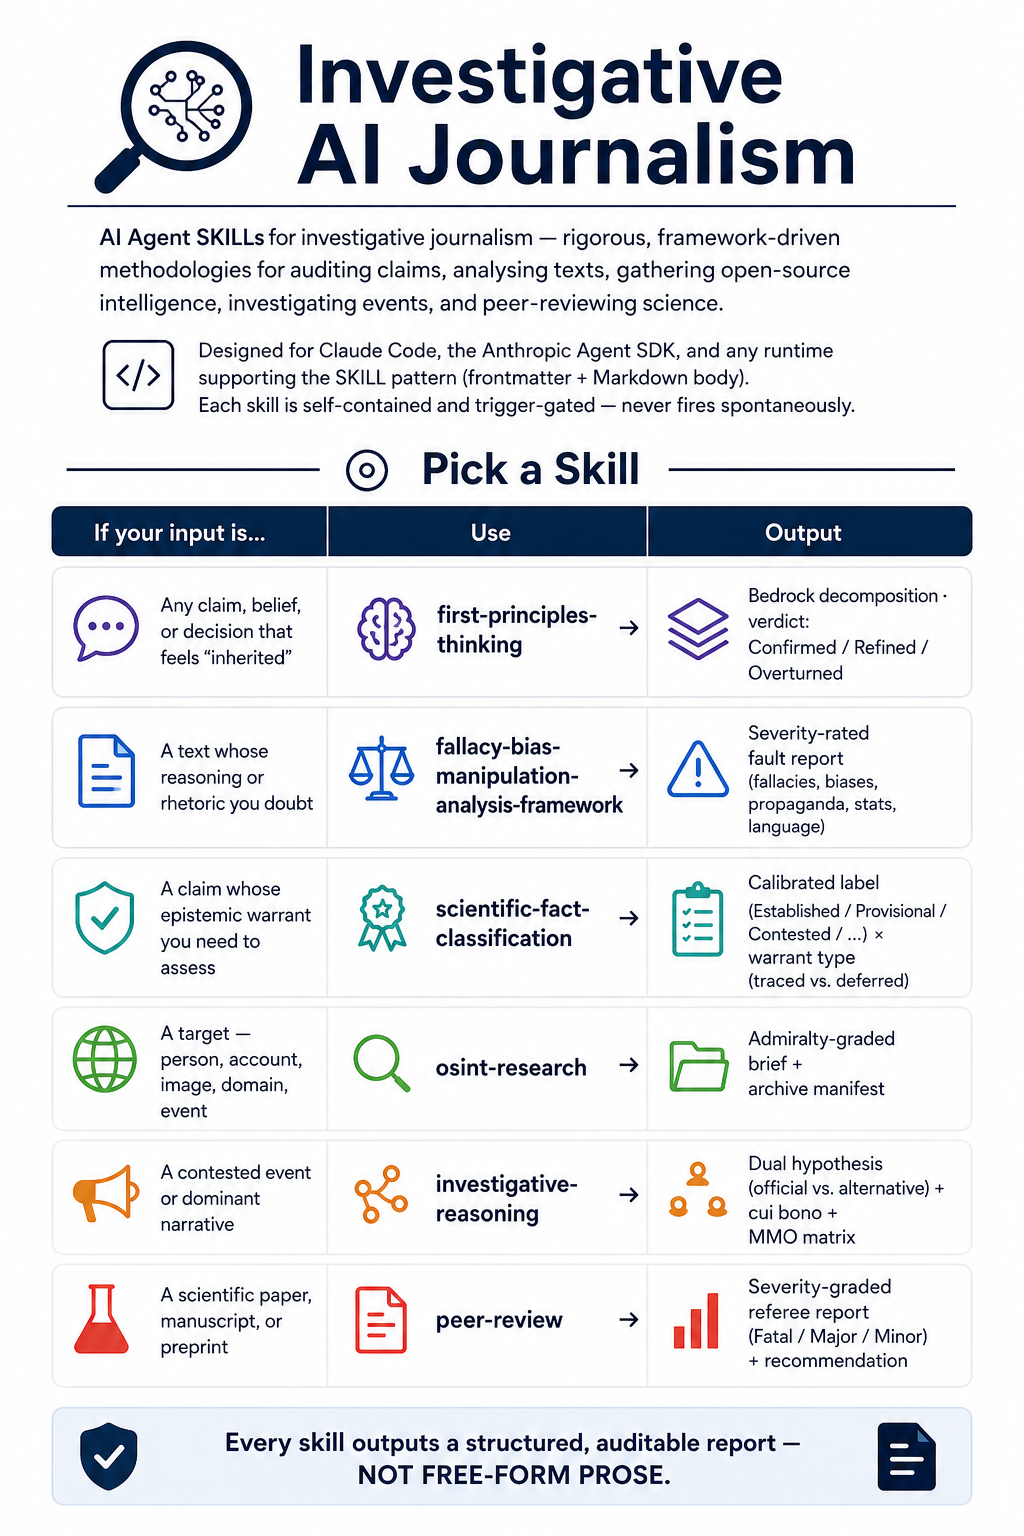
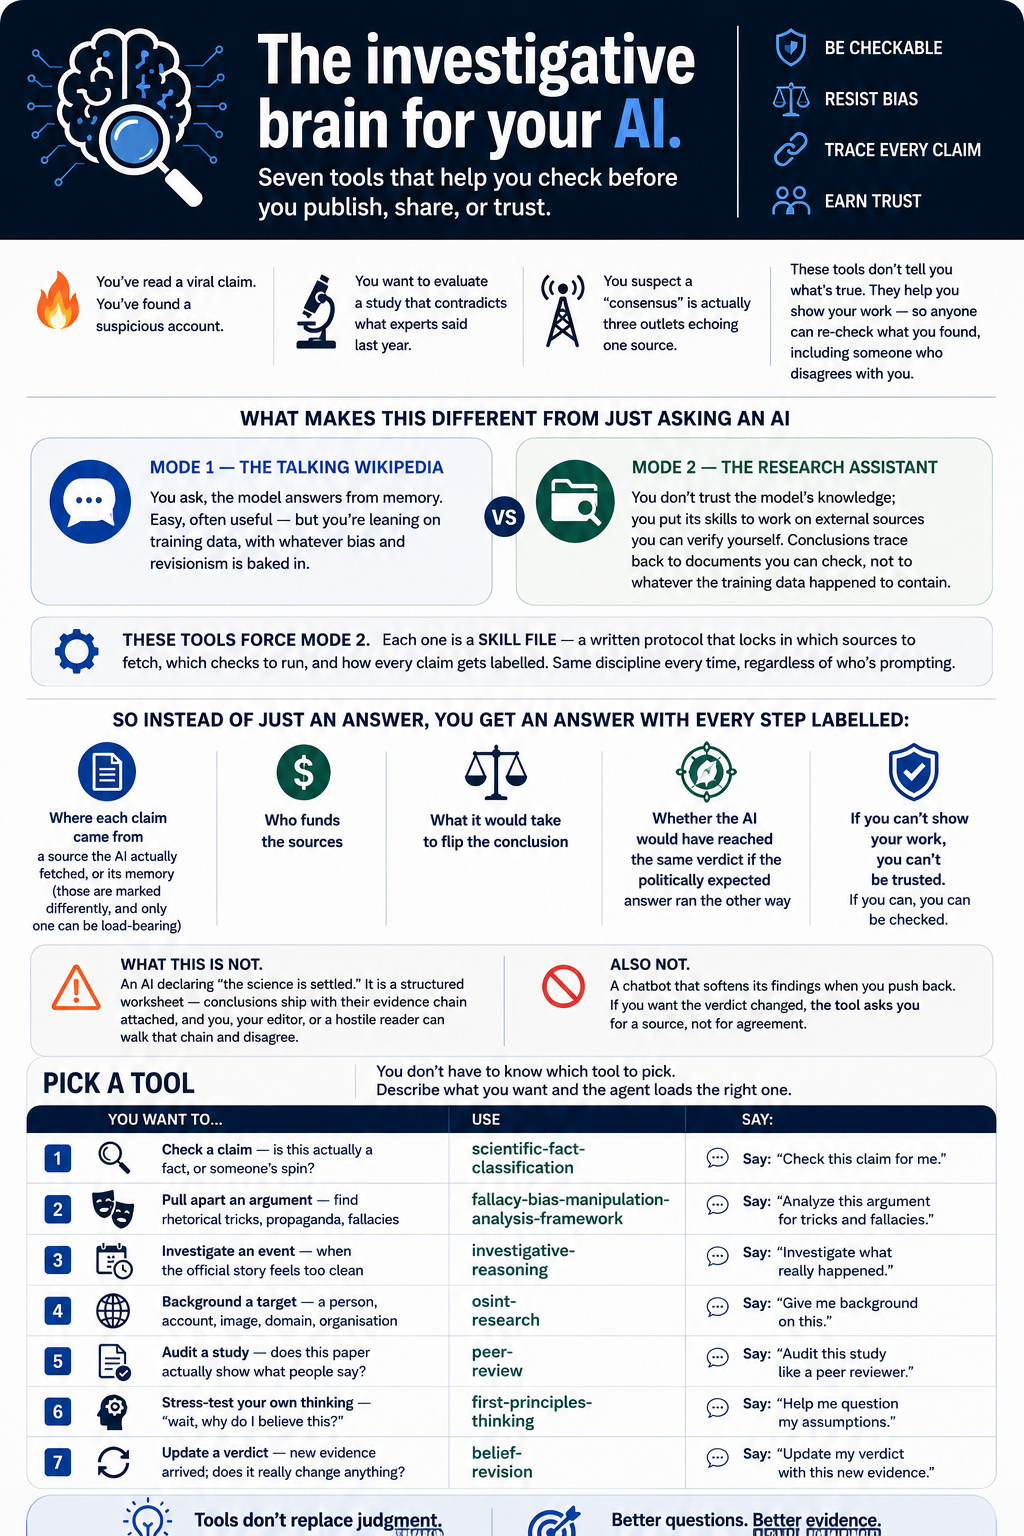
README: rewrite for amateur journalists and truth-seekers
Reframe the README around the user's problem (checking claims before
publishing or sharing) instead of toolbox architecture. Introduce the
two-modes framing — talking-Wikipedia vs research-assistant — to
explain why SKILL-driven analysis differs from plain AI prompting.
Compress Shared Discipline from a 50-line mechanism inventory to five
plain-language rules, add a "Discussing the result" section covering
how user input is verified during interactive refinement, and drop the
ASCII composition diagram and SKILL-anatomy block as developer-facing
noise. Refresh overview.png to match.

diff --git a/README.md b/README.md
@@ -4,248 +4,164 @@
   <img src="./overview.png" alt="Investigative AI Journalism — overview of the SKILLs" width="520">
 </p>
 
-Seven AI Agent SKILLs whose distinguishing property is **auditable, repeatable reasoning chains** — every load-bearing claim warrant-labelled, every assumption named, every source's funding / ownership / alignment surfaced, every verdict re-runnable on the same primary sources by an independent reviewer.
+**Seven tools that help you check before you publish, share, or trust.**
 
-> The toolbox does not replace bias. It makes bias traced and visible. Run any analysis through it and a sceptic can repeat the exact same chain on the same primary sources and check whether the conclusion holds — or doesn't.
+You've read a viral claim. You've found a suspicious account. You want to evaluate a study that contradicts what experts said last year. You suspect a "consensus" is actually three outlets echoing one source.
 
-**What this is not.** Not AI declaring "the science", settling contested political questions, or acting as a bias-eliminating oracle. The output is a *reasoning artifact for human verification* — not a verdict to be trusted on the agent's authority. Every conclusion is shown with its warrant chain attached, so a reviewer can repeat the work, check the sources, and disagree without starting from scratch.
-
-**Also not** a chatbot that updates its conclusions when the user pushes back. User contributions during interactive refinement are *inputs to be verified*, not warrants to be inherited (CLAUDE.md Rule 9). If the user wants the verdict changed, the toolbox asks for the primary source — not for agreement. This preserves the audit-chain property *for the third-party reviewer*, who didn't agree to trust the user.
-
-**What this is for.** Journalism, investigation, claim-auditing, and peer review — domains where the difference between a defensible conclusion and an indefensible one is *whether the work can be checked*. Compatible with [Claude Code](https://claude.com/claude-code), the Anthropic Agent SDK, and any runtime supporting the SKILL pattern (frontmatter + Markdown body). Each skill is self-contained and **trigger-gated** — never fires spontaneously.
+These tools don't tell you what's true. They help you **show your work** — so anyone can re-check what you found, including someone who disagrees with you.
 
 ---
 
-## Pick a Skill
+## What makes this different from just asking an AI
 
-| If your input is… | Use | Output |
-|---|---|---|
-| Any claim, belief, or decision that feels "inherited" | [`first-principles-thinking`](./.claude/skills/first-principles-thinking) | Bedrock decomposition · verdict: Confirmed / Refined / Overturned |
-| A text whose reasoning or rhetoric you doubt | [`fallacy-bias-manipulation-analysis-framework`](./.claude/skills/fallacy-bias-manipulation-analysis-framework) | Severity-rated fault report (fallacies, biases, propaganda, statistical, linguistic, discourse) |
-| A claim whose epistemic warrant you need to assess | [`scientific-fact-classification`](./.claude/skills/scientific-fact-classification) | Calibrated label × warrant type, plus the reader-usable consequential sentence |
-| A target — person, entity, account, image, domain, event | [`osint-research`](./.claude/skills/osint-research) | Admiralty-graded brief with archive manifest |
-| A contested event or dominant narrative | [`investigative-reasoning`](./.claude/skills/investigative-reasoning) | Dual hypothesis (official vs. alternative), positive-evidence-vs-doubt split, Cui Bono, MMO, source triangulation |
-| A scientific paper, manuscript, or preprint | [`peer-review`](./.claude/skills/peer-review) | Severity-graded referee report (Fatal / Major / Minor) with citation-load audit |
-| A prior verdict + new evidence that may change it | [`belief-revision`](./.claude/skills/belief-revision) | Calibrated update protected against under- and over-correction |
+An LLM has two capabilities people often confuse: **the knowledge baked into it during training**, and **the skills that came with it** — reading, comparing, reasoning, searching.
 
-Every skill outputs a **structured, auditable report** — not free-form prose.
+**Mode 1 — the talking Wikipedia.** You ask, the model answers from memory. Easy, often useful — but you're leaning on training data, with whatever bias and revisionism is baked in.
 
----
+**Mode 2 — the research assistant.** You don't trust the model's *knowledge*; you put its *skills* to work on external sources you can verify yourself. Conclusions trace back to documents you can check, not to whatever the training data happened to contain.
 
-## How They Fit Together
+These tools force Mode 2. Each one is a SKILL file — a written protocol that locks in which sources to fetch, which checks to run, and how every claim gets labelled. Same discipline every time, regardless of who's prompting.
 
-```
-                  ┌────────────────────────────────────┐
-                  │     first-principles-thinking      │  ← orthogonal sanity check
-                  └────────────────────────────────────┘
+So instead of just an answer, you get an answer **with every step labelled**:
 
-   osint-research  ─────────►  investigative-reasoning
-       (gather)                  (theorise about events;
-                                  source triangulation)
-                                          ▲
-   fallacy-bias  +  scientific-fact-classification
-       (text)            (claim warrant + calibrated sentence)
-                                          ▲
-                                   peer-review
-                            (integrative — on scientific papers;
-                             citation-load / deployment audit)
+- Where each claim came from — a source the AI actually fetched, or its memory (those are marked differently, and only one can be load-bearing)
+- Who funds the sources
+- What it would take to flip the conclusion
+- Whether the AI would have reached the same verdict if the politically expected answer ran the other way
 
-   any of the above ──────────►  belief-revision
-       (prior verdict)             (calibrated update when
-                                    new evidence emerges)
-```
+If you can't show your work, you can't be trusted. If you can, you can be checked. That's the whole point.
 
-Hand-offs declared inside the skills:
-- `osint-research` → `investigative-reasoning` once gathering is done and hypothesis work begins.
-- `peer-review` orchestrates `scientific-fact-classification` (claim typing), `fallacy-bias-…` (rhetoric), `investigative-reasoning` (motive/deception/triangulation), and `osint-research` (author / funder / replication-status verification).
-- `investigative-reasoning` Phase 3i (Source Triangulation) is referenced by `scientific-fact-classification` and `peer-review` when contested literature has ≥3 sources making conflicting claims.
-- `first-principles-thinking` is orthogonal — invokable inside any other skill whenever a load-bearing claim feels inherited rather than derived.
-- `belief-revision` takes the output of any other skill and produces a calibrated revision in its format when new evidence emerges.
+**What this is not.** An AI declaring "the science is settled." It is a structured worksheet — conclusions ship with their evidence chain attached, and you, your editor, or a hostile reader can walk that chain and disagree.
 
-Each skill carries a **Pairs With** block declaring its composition partners, so a user combining tools never has to infer the wiring.
+**Also not.** A chatbot that softens its findings when you push back. If you want the verdict changed, the tool asks you for a source, not for agreement.
 
 ---
 
-## Shared Discipline
+## Pick a tool
 
-The seven skills function as a single truth-seeking toolbox because they share five mechanisms:
+| You want to… | Use |
+|---|---|
+| **Check a claim** — is this actually a fact, or someone's spin? | [`scientific-fact-classification`](./.claude/skills/scientific-fact-classification) |
+| **Pull apart an argument** — find rhetorical tricks, propaganda, fallacies | [`fallacy-bias-manipulation-analysis-framework`](./.claude/skills/fallacy-bias-manipulation-analysis-framework) |
+| **Investigate an event** — when the official story feels too clean | [`investigative-reasoning`](./.claude/skills/investigative-reasoning) |
+| **Background a target** — a person, account, image, domain, organisation | [`osint-research`](./.claude/skills/osint-research) |
+| **Audit a study** — does this paper actually show what people say it shows? | [`peer-review`](./.claude/skills/peer-review) |
+| **Stress-test your own thinking** — "wait, why do I believe this?" | [`first-principles-thinking`](./.claude/skills/first-principles-thinking) |
+| **Update a verdict** — new evidence arrived; does it really change anything? | [`belief-revision`](./.claude/skills/belief-revision) |
 
-**1. Aligned report shape.** Every skill emits a report with the same outer scaffold:
-
-```
-# [Skill Type]: [Subject]
-## Summary                       — verdict / recommendation + key metadata
-## [skill-specific body]         — findings, tables, hypotheses, classifications
-## Confidence & Severity         — graded scoring
-## What Would Change This        — falsification criteria
-## Self-Audit                    — symmetry test + skill-specific neutrality checks
-## Limits of This Analysis       — scope, expertise gaps, unverifiable items
-```
-
-**2. Warrant labels (project standard).** Every load-bearing factual claim carries one of:
-
-- `(traced)` — followed evidence chain to a primary source fetched **this session** via WebFetch / WebSearch, with URL + access date stated
-- `(deferred to consensus)` — relying on a named consensus mechanism (peer-reviewed literature, regulatory body, textbook)
-- `(deferred, fragile)` — deferred but consensus-failure modes apply (funder capture, prestige cascade, replication crisis, etc.) — name which
-- `(memory — unverified)` — recalled from training data; never load-bearing without an explicit "this could be wrong" caveat
-- `(user-supplied — unverified)` — provided by the user during interactive refinement; never load-bearing on its own; treated as a hypothesis to test or an input to verify (see CLAUDE.md Rule 9)
-
-The label is **per-session, not lifetime.** Confidence about an unfetched chain belongs in surrounding prose, never laundered into a `(traced)` label. Defined and enforced via [`CLAUDE.md`](./CLAUDE.md) and a `Stop` hook at [`.claude/hooks/check-research-warrant.ps1`](./.claude/hooks/check-research-warrant.ps1) that blocks analytical output without source-tracing.
-
-**3. Symmetry test.** Every Self-Audit answers the same question first: *"Would I have reached the same verdict if the politically/socially expected answer ran the other way?"* If no — explain. If you can't tell — say so.
-
-**4. Research Discipline (CLAUDE.md).** Each skill names which of the nine project-wide operating rules bind its work and how they apply locally:
-
-1. Pre-search hypothesis registration
-2. Steelman from primary literature
-3. Primary before secondary
-4. Map institutional networks before counting independent corroboration
-5. Tier-0 priority for time-sensitive claims
-6. Bias self-audit
-7. Minimum search volumes
-8. Hostility check on sources
-9. Interactive refinement — user contributions are inputs to be verified, never warrants. Label `(user-supplied — unverified)` until traced.
-
-These are not optional add-ons but constitutive of every skill's output. Rule 9 applies to *all* skills the moment the conversation moves from initial analysis into back-and-forth refinement.
-
-**5. Positive evidence vs. doubt cast on the alternative.** Dual-hypothesis work (investigative-reasoning Phase 9) requires each hypothesis to list its *positive evidence* separately from *doubt cast on the rival*. A hypothesis whose entire support is "doubt about the other side" is structurally asymmetric to one with direct positive evidence — the toolbox surfaces this distinction structurally, not by analyst intuition.
-
-Each `SKILL.md` carries `version` and `aligned` fields in its frontmatter, so consumers can detect drift from the documented baseline.
-
-> **Note for editors.** The `Stop` hook regex in `.claude/hooks/check-research-warrant.ps1` tracks marker phrases in skill output templates ("Hypothesis A/B", "Cui Bono", "Bedrock", classification labels, warrant tags, "Anchor Declaration", etc.). If you rename a section or label, update the hook regex in the same change, or the discipline check will silently stop catching memory-laundering in that category.
+You don't have to know which tool to pick. Describe what you want and the agent loads the right one. The "Say:" phrases below show what activates each.
 
 ---
 
-## What is a SKILL?
+## What each one does, in plain English
 
-```yaml
----
-name: skill-name
-description: When and why to invoke this skill
-version: 1.0
-aligned: 2026-05-26
----
+### Is this claim solid? — `scientific-fact-classification`
 
-# Phases, checklists, output format
-```
+Takes a claim ("X causes Y", "studies show…", "it's been proven that…") and places it on the spectrum from **established fact** to **assumption** to **opinion** to **unfalsifiable belief**. Tells you what's missing for the claim to qualify as fact, and gives you a **calibrated sentence** you can use in your own writing — one that carries the right hedges so it can't be misread as bigger than the evidence supports.
 
-`description` tells the agent *when* to load the skill; the body tells it *how* to execute.
+Say: *"is X a fact?"* · *"weigh the evidence for…"* · *"how well-supported is this?"*
 
----
+### Find the manipulation — `fallacy-bias-manipulation-analysis-framework`
 
-## The Skills
+Reads a text — article, speech, transcript, thread — and surfaces fallacies, cognitive biases, propaganda techniques (firehose-of-falsehood, motte-and-bailey, DARVO, gaslighting…), statistical sleight-of-hand, and discourse-level patterns. Charitable first: every flag has to survive a steelman reading, or it's dropped.
 
-### [`first-principles-thinking`](./.claude/skills/first-principles-thinking)
-> Decompose a claim or proposal to bedrock truths and rebuild reasoning from there.
+Say: *"analyse this for fallacies"* · *"is this propaganda?"* · *"what rhetorical tricks are being used?"*
 
-Four moves: state · decompose · excavate to Bedrock / Assumption / Unknown · rebuild. A compact engine for stress-testing conventional wisdom or stuck arguments. When an Excavation reaches Bedrock via an empirical claim, the project's warrant labels bind that sub-claim — and a `(memory — unverified)` Bedrock is downgraded to Assumption.
+### Investigate an event — `investigative-reasoning`
 
-**Triggers:** *"break this down from first principles"*, *"is this actually true?"*, *"why is it done this way?"*, *"what are we assuming?"*, *"rethink this"*, *"challenge my thinking"*.
+Detective work for contested events. Builds **two** hypotheses — the official narrative *and* a steelmanned alternative — and compares them head-to-head. Demands **positive evidence** on each side (not just "doubt about the other"). Maps who benefits, what means and motive look like, and surfaces when "ten outlets confirmed it" turns out to be ten outlets quoting one source.
 
----
+Say: *"investigate this event"* · *"who benefits from this?"* · *"find the red flags in this explanation"*
 
-### [`fallacy-bias-manipulation-analysis-framework`](./.claude/skills/fallacy-bias-manipulation-analysis-framework)
-> Audit a text for logical fallacies, cognitive biases, rhetorical manipulation, statistical deception, and discourse-level patterns.
+### Background a target — `osint-research`
 
-Steelman first, then systematic scan: formal → informal fallacies → cognitive biases → rhetoric and propaganda (firehose, motte-and-bailey, DARVO, gaslighting, Schopenhauer's tricks, …) → statistical manipulation → linguistic patterns → discourse-structural. Every flag survives charitable reading or is dropped; every load-bearing flaw gets a steelman repair offer.
+Open-source intelligence using only publicly available information. Profiles people, accounts, images, domains, organisations, events. Verifies images and videos (where and when was this taken?). Grades each source on independence and credibility. Hard limits built in: no facial recognition on private individuals, no breaking into anything, no fabricating tradecraft the AI can't actually do.
 
-**Triggers:** *"analyse this for fallacies"*, *"find the cognitive biases"*, *"audit this reasoning"*, *"is this propaganda?"*, *"what rhetorical tricks"*, *"stress-test this argument"*, *"find the manipulation"*.
+Say: *"find out about X"* · *"build a profile on this account"* · *"verify this image"* · *"trace this domain"*
 
----
+### Audit a paper — `peer-review`
 
-### [`scientific-fact-classification`](./.claude/skills/scientific-fact-classification)
-> Classify each claim along a spectrum from established fact to unfalsifiable belief — and write the calibrated sentence the reader should use.
+Reads a scientific paper and produces a referee-style report. Checks the methodology against its field's standards, audits the stats, **verifies the citations** (fetches each load-bearing cited source and checks it actually supports the paper's claim), and — distinctively — checks the **deployment gap**: is this paper being cited downstream to support claims much bigger than it actually shows? Findings come back tagged Fatal / Major / Minor, with what would change the verdict.
 
-Per claim: type → falsifiability → evidence tier + GRADE → Bradford Hill (causal claims) → Bayesian weighing → confidence label × warrant type (**traced** vs. **deferred to consensus** — explicit about consensus failure modes: funder capture, prestige cascades, replication-crisis fields). Closes with the **consequential sentence**: the reader-usable phrasing that carries the hedges intact, so calibrated labels do not silently round to "fact / not-fact" in downstream reception.
+Say: *"review this paper"* · *"is this study sound?"* · *"verify the citations"*
 
-**Triggers:** *"is X a fact?"*, *"weigh the evidence for Y"*, *"classify these claims"*, *"distinguish fact from assumption"*, *"has this been proven?"*, *"how well-supported is this?"*, *"is this objective?"*.
+### Why do I believe this? — `first-principles-thinking`
 
----
+For when a belief or argument feels inherited rather than earned. Breaks the claim down to bedrock truths and rebuilds the reasoning. Useful when conventional wisdom suddenly feels shaky, or when you're stuck on a proposal whose justification you can't quite articulate.
 
-### [`osint-research`](./.claude/skills/osint-research)
-> Plan, execute, and verify open-source intelligence using only publicly available information (PAI).
+Say: *"is this actually true?"* · *"why is it done this way?"* · *"break this down from first principles"*
 
-Five-phase cycle (Planning → Collection → Processing → Analysis → Dissemination), calibrated to what an AI agent can actually do without shell access or paid databases. **Admiralty Code** (NATO STANAG 2511) grading on independent reliability / credibility axes. Pivoting chains for name / username / email / domain / phone / image / entity. Hard constraints — PAI only, no active engagement, no facial recognition on private individuals, harm minimisation — define the boundary between OSINT and conduct that is unethical, unlawful, or operationally compromising.
+### Did new evidence change anything? — `belief-revision`
 
-**Triggers:** *"find out about X"*, *"build a profile on X"*, *"who is behind this account?"*, *"verify this image/video"*, *"where/when was this taken?"*, *"trace this username/email/domain"*, *"digital footprint of X"*.
+You had a conclusion; new evidence arrived. Should you update — and by how much? This tool guards against both **under-correction** (anchoring on your prior because changing your mind feels like losing) and **over-correction** (chasing the loudest new thing). You write down your prior first, predict the update before reading the evidence, then check whether the actual update was driven by the evidence or by where the social pressure points.
+
+Say: *"does this change anything?"* · *"should I change my mind?"* · *"revise this analysis"*
 
 ---
 
-### [`investigative-reasoning`](./.claude/skills/investigative-reasoning)
-> Critically analyse events, detect deception, develop ranked alternative hypotheses — with positive evidence demanded for each side and source triangulation when the literature is contested.
+## How the tools work together
 
-Detective-method playbook. **Mandates web search at every phase** to break free of training-data bias toward official narratives. Source tiers (Tier 0 = contemporary primary), CoI demotion, geopolitical-alignment checks, evidence ladder. **18 influence-operation patterns** (false flag, problem–reaction–solution, limited hangout, controlled opposition, astroturfing, …). **Source Triangulation** (Phase 3i) for ≥3-source disagreements — exposes single-origin amplification ("10 outlets" with one source-node) and rewards genuinely independent convergence. **Dual-hypothesis mandate:** every investigation produces a steelmanned official narrative AND a steelmanned alternative, compared head-to-head with **positive evidence and doubt-cast-on-the-alternative tracked in separate columns**. A hypothesis built only from doubt is structurally asymmetric to one with positive evidence.
-
-**Triggers:** *"investigate this event"*, *"develop a conspiracy theory about X"*, *"who benefits from Y?"*, *"apply critical thinking to this narrative"*, *"find red flags in this explanation"*.
+You don't have to learn the wiring — each tool calls the others when it needs to. A peer review pulls in fact-classification for individual claims. An investigation pulls in OSINT for backgrounding. Any of them hands off to belief-revision when new evidence arrives. The audit chain stays end-to-end.
 
 ---
 
-### [`peer-review`](./.claude/skills/peer-review)
-> Rigorous, citation-verified peer review of scientific papers — with explicit audit of downstream deployment.
+## How they stay honest
 
-Audits methodology, statistics, causal claims, citations, reproducibility, and literature context against the paper's genre and field standards (preprint vs. journal; RCT vs. observational; ML vs. lab biology; systematic review; replication; qualitative). Audits the **inferential gap** between what was measured and what is claimed, **and the citation-load gap** — what consequential claims the paper is cited to support downstream, classified Inside-lane / Lane-stretched / Outside-lane. **Verifies load-bearing citations** by fetching the cited source and comparing to the paper's claim (Supports / Partial / Contradicts / Unrelated / Unverifiable). When the literature is itself contested (≥3 sources disagreeing on a load-bearing point), routes to `investigative-reasoning` Phase 3i triangulation. Outputs severity tags (**Fatal / Major / Minor / Optional / Praise**), an explicit recommendation, and what would change it upward or downward.
+Five rules bind every tool, so the discipline you get is the same regardless of which one produced the output:
 
-**Triggers:** *"review this paper"*, *"is this study sound?"*, *"audit the methodology"*, *"do the results support the conclusion?"*, *"verify the citations"*, *"is this reproducible?"*, *"produce a referee report"*.
+1. **Every claim labelled.** Did the AI fetch the source this session, or is it working from memory? Both are allowed — but they're marked differently, and only fetched sources can be load-bearing.
+2. **Symmetry test.** Every output ends by answering: *would I have reached the same verdict if the politically expected answer ran the other way?* If not — explain why.
+3. **Primary before secondary.** When someone summarises a paper, court filing, or document, fetch the actual thing before citing.
+4. **Map the network.** Ten outlets repeating one source is not ten sources. The tool surfaces this rather than letting "consensus" hide a single point of origin.
+5. **Your pushback doesn't override the chain.** When you correct the AI mid-analysis, your input is marked *user-supplied, unverified* until you provide a source. The audit trail has to survive *you*, because the reader downstream did not agree to trust you.
 
----
-
-### [`belief-revision`](./.claude/skills/belief-revision)
-> Update a prior verdict when new evidence emerges — calibrated against both under-correction (anchoring on the prior) and over-correction (anchoring on novelty or social pressure).
-
-Takes a prior analytical output from any of the other six skills and produces a calibrated revision in its format. **Anchor declaration** (write down the prior verdict and your priors in writing *before* reading the new evidence). **Predicted update** (predict the direction and magnitude *before* incorporating). **Pressure-direction check** (is the expected revision direction the institutionally rewarded one?). **Asymmetric-warrant rule:** `(memory — unverified)` and `(user-supplied — unverified)` cannot overturn `(traced)`. **Fresh-analyst test:** would someone seeing only the new evidence (no prior) reach this same revised verdict? Five possible statuses: Confirmed / Refined / Shifted / Overturned / Suspended.
-
-**Triggers:** *"update this verdict"*, *"revise this analysis"*, *"new evidence came in — does it change anything?"*, *"should I change my mind?"*, *"rethink this in light of X"*.
+A behind-the-scenes check ("Stop hook") will block the AI from producing investigation-style output when it didn't actually fetch any sources — so it can't fake the homework. Full rules are in [CLAUDE.md](./CLAUDE.md), and they enforce themselves; you don't need to read them to use the tools.
 
 ---
 
-## Installation
+## Discussing the result
 
-The skills live under `.claude/skills/` in this repository — Claude Code's standard skills location — so an AI agent can copy them in place without any path rewriting.
+You can — and should — push back on what the AI produced. The toolbox is built for argument. But the AI doesn't drop its discipline just because the conversation has narrowed to you and it. Every correction, counter-argument, "wait, actually…" and "consider this…" gets the same treatment any other source gets.
 
-Paste this to Claude Code (or any AI coding agent with shell access):
+**It asks for the receipt.** A correction with a URL or citation can be fetched, verified, and folded into the chain as `(traced)`. A correction without a source gets marked `(user-supplied — unverified)` and cannot be load-bearing — it can be incorporated as a *hypothesis to test*, but the verdict won't pivot on it.
+
+**It runs the symmetry test on you.** *Would the analysis have updated the same way if your contribution had pointed in the opposite direction with the same evidential weight?* If the honest answer is "no, I'd only update for one direction" — that's anchoring on your preference, not on the evidence, and the AI says so out loud.
+
+**It notes that you have stakes too.** On charged topics, the AI acknowledges — without accusation — that you have your own alignment, funding, priors, and reasons to want the conclusion to land a particular way. It applies the same scepticism to your input that it applies to any source with skin in the outcome. The discipline doesn't exempt the person at the keyboard.
+
+**It distinguishes "direct me" from "override me."** You can legitimately:
+- Point the AI at a new angle to investigate
+- Provide a primary document for it to fetch
+- Identify an error in the chain — with a source-traced correction
+- Reject the conclusion in your own voice (a personal opinion piece is a different output than an audited analysis)
+
+You can't legitimately have it suppress findings you dislike, accept un-sourced assertions as established evidence, or label something `(traced)` that it didn't actually trace this session.
+
+This isn't about distrusting you. It's about preserving the audit trail for the person reading the output later — your editor, a sceptical reader, your future self — who didn't agree to trust you, and who has to be able to walk the chain themselves. If you push for a revision without a source and the AI declines to flip the verdict, that's the discipline working. Send the primary document and it'll fetch it; the chain extends.
+
+---
+
+## Install
+
+The skills live under `.claude/skills/` — the standard location, so any compatible AI agent can install them by copying the folder.
+
+**For Claude Code,** paste this:
 
 > Install the SKILLs from `https://github.com/patricksavalle/investigate-journalism-skills`.
 > Clone the repository to a temporary location, then copy every folder inside its `.claude/skills/`
-> directory into my `~/.claude/skills/` directory (for user-level, available across all projects).
-> If I'd prefer a project-scoped install, copy them into this project's `.claude/skills/` instead —
-> ask me which one I want. After copying, remind me to restart Claude Code or run `/skills` so
-> the new skills are loaded.
+> directory into my `~/.claude/skills/` directory so they're available across all my projects.
+> If I'd prefer a project-only install, copy them into this project's `.claude/skills/` instead —
+> ask me which. After copying, remind me to restart Claude Code or run `/skills`.
 
-**Other AI runtimes:** any runtime supporting the SKILL pattern can use these files directly. Point your skill loader at `.claude/skills/`.
-
----
-
-## Design Principles
-
-**The headline principle: auditable, repeatable reasoning chains.** Every conclusion the toolbox produces ships with its warrant chain attached. An independent reviewer — including one hostile to the conclusion — can re-run the same chain on the same primary sources and check whether it holds. The toolbox's value is not that it removes bias, but that it makes bias *traced and visible* and re-derivable. Everything below serves this.
-
-- **Warrant-labelled traceability** — every load-bearing claim carries `(traced)` / `(deferred to consensus)` / `(deferred, fragile)` / `(memory — unverified)`. Memory-laundering of training-data bias is the failure mode the toolbox exists to prevent.
-- **Hook-enforced** — the project's `Stop` hook blocks analytical output that lacks source-tracing, mechanically.
-- **Structured, aligned output** — every framework specifies its report format so findings are auditable, and all reports share an outer scaffold so multi-skill chains compose without losing their audit trail.
-- **Composable** — each skill declares its Pairs-With partners; tool wiring is visible, not implicit, so a chain that crosses skills stays traceable end-to-end.
-- **Trigger-gated** — never spontaneous; always explicit invocation. The user must ask, so the audit trail begins where the user expects it.
-- **Charity first** — steelman the target (paper, claim, alternative hypothesis) from its own advocates' primary writing before challenging it. Charitable reading is part of what makes the chain reproducible by sceptics.
-- **Self-audit under reversal** — same standards regardless of which side the conclusion lands on; symmetry test mandatory. The audit's value evaporates if it doesn't apply symmetrically.
-- **Calibration over verdict** — graded confidence labels and the reader-usable consequential sentence, not binary judgements. The chain carries its hedges into downstream use.
-- **Positive evidence demanded** — dual hypotheses require direct positive evidence per side; doubt-cast-on-the-alternative is tracked separately. Asymmetry between the two becomes part of the verdict.
-- **Citation-load audited** — peer review extends past in-paper claims to audit what the paper is cited to support downstream. The deployment gap is where field-level harm originates.
-- **Source triangulation, not source counting** — institutionally networked single-origin claims that present as "10 sources confirm" are exposed via network reduction.
-- **Honest tooling boundaries** — frameworks state what an AI agent can and cannot do natively; no fabricated tradecraft. An audit trail with fabricated steps is worse than no audit trail.
+**For other AI runtimes** that support the SKILL pattern: point your loader at `.claude/skills/`. The files are plain Markdown with frontmatter — no build step.
 
 ---
 
-## Contributing
+## A note for editors and contributors
 
-Issues and PRs welcome. New SKILLs should follow the existing structure:
+The discipline check ([`.claude/hooks/check-research-warrant.ps1`](./.claude/hooks/check-research-warrant.ps1)) reads marker phrases out of skill outputs. If you rename a section or warrant label inside a skill, update the hook regex in the same change — or the check stops catching things silently.
 
-1. Frontmatter with `name`, `description`, `version`, `aligned`
-2. Explicit **Activation** section listing trigger phrases (and explicit non-triggers where useful)
-3. **Pairs With** block naming composition partners across the toolbox
-4. **Research Discipline (CLAUDE.md)** block naming which numbered rules apply and how
-5. **Warrant Labels** block referencing the project-standard four-label set
-6. Phase-numbered methodology (Phase 0 = pre-analysis discipline)
-7. Defined **Output Format** block matching the shared outer scaffold
-8. **Quick-Reference Matrix** at end
+New skill PRs should follow the existing pattern: frontmatter (`name`, `description`, `version`, `aligned` date), an Activation block with trigger phrases, a Pairs-With block, and the shared report scaffold (Summary → body → Confidence & Severity → What Would Change This → Self-Audit → Limits).
 
 ---
 